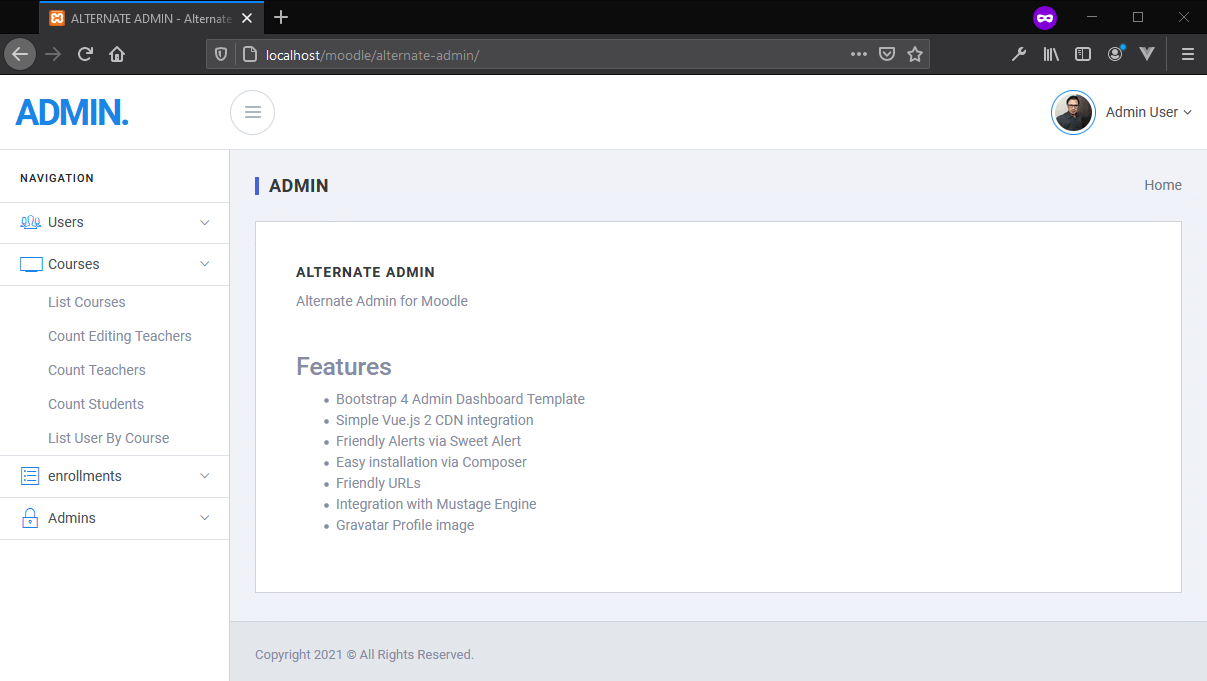
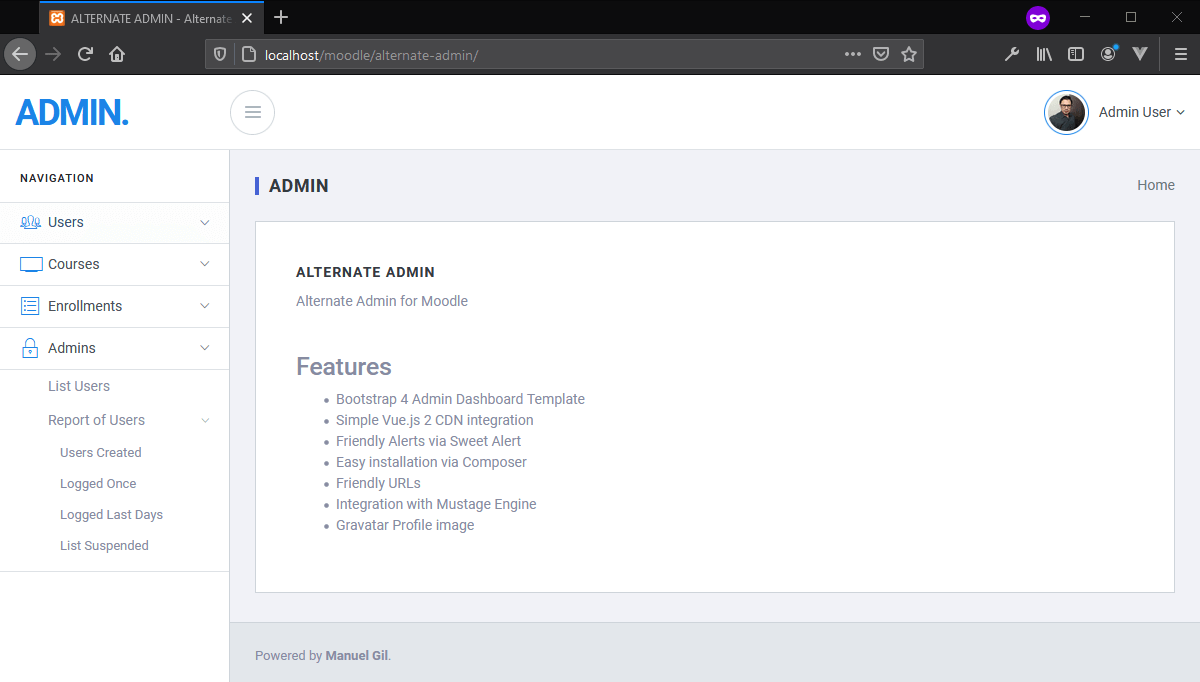
Update v0.1.2

diff --git a/app/controllers/UserController.php b/app/controllers/UserController.php
@@ -27,7 +27,7 @@
  *
  * Problem: Add more function to tradiccional admin.
  * @author $Author: Manuel Gil. $
- * @version $Revision: 0.1.1 $ $Date: 02/05/2021 $
+ * @version $Revision: 0.1.2 $ $Date: 02/06/2021 $
  * ~~~~~~~~~~~~~~~~~~~~~~~~~~~~~~~~~~~~~~~~~~~~~~~~~~~~~~~~~~~~~~~~~~~~
  */
 
@@ -277,5 +277,103 @@ class UserController extends BaseController
 
 		// Render template.
 		return $this->render('/users/list-courses-user.mustache', $params);
+	}
+
+	/**
+	 * This method load the 'suspend-user' route. <br/>
+	 * <b>post: </b>access to GET method.
+	 */
+	public function getSuspendUser()
+	{
+		// Imports Config and Current User.
+		global $CFG, $USER;
+
+		// Parsing the users.
+		$users = addslashes(
+			json_encode(
+				get_users_listing(),
+				JSON_HEX_AMP | JSON_HEX_TAG | JSON_HEX_APOS | JSON_HEX_QUOT
+			)
+		);
+
+		$params = array(
+			'COMPANY' => COMPANY,
+			'BASE_URL' => BASE_URL,
+			'wwwroot' => $CFG->wwwroot,
+			'USER' => $USER,
+			'users' => $users
+		);
+
+		// Render template.
+		return $this->render('/users/suspend-user.mustache', $params);
+	}
+
+	/**
+	 * This method load the 'suspend-user' route. <br/>
+	 * <b>post: </b>access to POST method.
+	 */
+	public function postSuspendUser()
+	{
+		// Imports Config, Database and Current User.
+		global $CFG, $DB, $USER;
+
+		// Define the count variables.
+		$successes = 0;
+		$failures = 0;
+
+		// Loop through the users.
+		foreach ($_POST['users'] as $userid) {
+			try {
+				$DB->set_field('user', 'suspended', '1', ['id' => $userid]);
+
+				// Add one user to the count.
+				$successes++;
+			} catch (\Throwable $e) {
+				// Add one fault to the count.
+				$failures++;
+			}
+		}
+
+		$message = "";
+
+		// Add a message with the number of hits.
+		if ($successes > 0) {
+			$message .= "<div class=\"alert alert-success\" role=\"alert\">
+        				      <button type=\"button\" class=\"close\" data-dismiss=\"alert\" aria-label=\"Close\">
+        				        <span aria-hidden=\"true\">&times;</span>
+        				      </button>
+        				      <strong>Well done!</strong> {$successes} users were suspended.
+        				</div>";
+		}
+
+		// Add a message with the number of failures.
+		if ($failures > 0) {
+			$message .= "<div class=\"alert alert-danger\" role=\"alert\">
+        				      <button type=\"button\" class=\"close\" data-dismiss=\"alert\" aria-label=\"Close\">
+        				        <span aria-hidden=\"true\">&times;</span>
+        				      </button>
+        				      <strong>Heads up!</strong> {$failures} users could not be suspended.
+        				</div>";
+		}
+
+		// Parsing the users.
+		$users = addslashes(
+			json_encode(
+				get_users_listing(),
+				JSON_HEX_AMP | JSON_HEX_TAG | JSON_HEX_APOS | JSON_HEX_QUOT
+			)
+		);
+
+		$params = array(
+			'COMPANY' => COMPANY,
+			'BASE_URL' => BASE_URL,
+			'wwwroot' => $CFG->wwwroot,
+			'USER' => $USER,
+			'users' => $users,
+			'message' => $message
+		);
+
+		// Render template.
+		return $this->render('/users/suspend-user.mustache', $params);
 	}
 }

diff --git a/app/controllers/AdminController.php b/app/controllers/AdminController.php
@@ -27,7 +27,7 @@
  *
  * Problem: Add more function to tradiccional admin.
  * @author $Author: Manuel Gil. $
- * @version $Revision: 0.1.1 $ $Date: 02/05/2021 $
+ * @version $Revision: 0.1.2 $ $Date: 02/06/2021 $
  * ~~~~~~~~~~~~~~~~~~~~~~~~~~~~~~~~~~~~~~~~~~~~~~~~~~~~~~~~~~~~~~~~~~~~
  */
 
@@ -200,5 +200,46 @@ class AdminController extends BaseController
 
 		// Render template.
 		return $this->render('/admins/logged-last-days.mustache', $params);
+	}
+
+	/**
+	 * This method load the 'list-suspended' route. <br/>
+	 * <b>post: </b>access to GET method.
+	 */
+	public function getListSuspended()
+	{
+		// Imports Config, Database and Current User.
+		global $CFG, $DB, $USER;
+
+		// SQL Query for count users.
+		$sql = "SELECT      id,
+							username,
+							email,
+							firstname,
+							lastname
+				FROM		{user}
+				WHERE       suspended = 1;";
+
+		// Execute the query.
+		$records = $DB->get_records_sql($sql);
+
+		// Parsing the users.
+		$users = addslashes(
+			json_encode(
+				$records,
+				JSON_HEX_AMP | JSON_HEX_TAG | JSON_HEX_APOS | JSON_HEX_QUOT
+			)
+		);
+
+		$params = array(
+			'COMPANY' => COMPANY,
+			'BASE_URL' => BASE_URL,
+			'wwwroot' => $CFG->wwwroot,
+			'USER' => $USER,
+			'users' => $users
+		);
+
+		// Render template.
+		return $this->render('/admins/list-suspended.mustache', $params);
 	}
 }

diff --git a/app/controllers/EnrollmentController.php b/app/controllers/EnrollmentController.php
@@ -27,7 +27,7 @@
  *
  * Problem: Add more function to tradiccional admin.
  * @author $Author: Manuel Gil. $
- * @version $Revision: 0.1.1 $ $Date: 01/25/2021 $
+ * @version $Revision: 0.1.2 $ $Date: 01/25/2021 $
  * ~~~~~~~~~~~~~~~~~~~~~~~~~~~~~~~~~~~~~~~~~~~~~~~~~~~~~~~~~~~~~~~~~~~~
  */
 
@@ -519,6 +519,7 @@ class EnrollmentController extends BaseController
 		// Render template.
 		return $this->render('/enrollments/switch-role.mustache', $params);
 	}
+
 	/**
 	 * This method load the 'switch-role' route. <br/>
 	 * <b>post: </b>access to POST method.

diff --git a/app/App.php b/app/App.php
@@ -27,7 +27,7 @@
  *
  * Problem: Add more function to tradiccional admin.
  * @author $Author: Manuel Gil. $
- * @version $Revision: 0.1.1 $ $Date: 02/05/2021 $
+ * @version $Revision: 0.1.2 $ $Date: 02/06/2021 $
  * ~~~~~~~~~~~~~~~~~~~~~~~~~~~~~~~~~~~~~~~~~~~~~~~~~~~~~~~~~~~~~~~~~~~~
  */
 

diff --git a/app/config/Config.php b/app/config/Config.php
@@ -27,7 +27,7 @@
  *
  * Problem: Add more function to tradiccional admin.
  * @author $Author: Manuel Gil. $
- * @version $Revision: 0.1.1 $ $Date: 02/05/2021 $
+ * @version $Revision: 0.1.2 $ $Date: 02/06/2021 $
  * ~~~~~~~~~~~~~~~~~~~~~~~~~~~~~~~~~~~~~~~~~~~~~~~~~~~~~~~~~~~~~~~~~~~~
  */
 

diff --git a/app/controllers/BaseController.php b/app/controllers/BaseController.php
@@ -27,7 +27,7 @@
  *
  * Problem: Add more function to tradiccional admin.
  * @author $Author: Manuel Gil. $
- * @version $Revision: 0.1.1 $ $Date: 02/05/2021 $
+ * @version $Revision: 0.1.2 $ $Date: 02/06/2021 $
  * ~~~~~~~~~~~~~~~~~~~~~~~~~~~~~~~~~~~~~~~~~~~~~~~~~~~~~~~~~~~~~~~~~~~~
  */
 

diff --git a/app/controllers/CourseController.php b/app/controllers/CourseController.php
@@ -27,7 +27,7 @@
  *
  * Problem: Add more function to tradiccional admin.
  * @author $Author: Manuel Gil. $
- * @version $Revision: 0.1.1 $ $Date: 02/05/2021 $
+ * @version $Revision: 0.1.2 $ $Date: 02/06/2021 $
  * ~~~~~~~~~~~~~~~~~~~~~~~~~~~~~~~~~~~~~~~~~~~~~~~~~~~~~~~~~~~~~~~~~~~~
  */
 

diff --git a/app/controllers/MainController.php b/app/controllers/MainController.php
@@ -27,7 +27,7 @@
  *
  * Problem: Add more function to tradiccional admin.
  * @author $Author: Manuel Gil. $
- * @version $Revision: 0.1.1 $ $Date: 02/05/2021 $
+ * @version $Revision: 0.1.2 $ $Date: 02/06/2021 $
  * ~~~~~~~~~~~~~~~~~~~~~~~~~~~~~~~~~~~~~~~~~~~~~~~~~~~~~~~~~~~~~~~~~~~~
  */
 

diff --git a/index.php b/index.php
@@ -27,7 +27,7 @@
  *
  * Problem: Add more function to tradiccional admin.
  * @author $Author: Manuel Gil. $
- * @version $Revision: 0.1.1 $ $Date: 02/05/2021 $
+ * @version $Revision: 0.1.2 $ $Date: 02/06/2021 $
  * ~~~~~~~~~~~~~~~~~~~~~~~~~~~~~~~~~~~~~~~~~~~~~~~~~~~~~~~~~~~~~~~~~~~~
  */
 

diff --git a/CHANGELOG.md b/CHANGELOG.md
@@ -7,6 +7,12 @@ and this project adheres to [Semantic Versioning](https://semver.org/spec/v2.0.0
 
 ## [Unreleased]
 
+## [0.1.2] - 2021-02-06
+
+### Added
+
+-   New "Suspend User" sub-section to "Users".
+
 ## [0.1.1] - 2021-02-05
 
 ### Added
@@ -118,7 +124,8 @@ and this project adheres to [Semantic Versioning](https://semver.org/spec/v2.0.0
 
 _Initial major release.._
 
-[unreleased]: https://github.com/ManuelGil/alternate-admin/compare/v0.1.1...HEAD
+[unreleased]: https://github.com/ManuelGil/alternate-admin/compare/v0.1.2...HEAD
+[0.1.2]: https://github.com/ManuelGil/alternate-admin/compare/v0.1.1...v0.1.2
 [0.1.1]: https://github.com/ManuelGil/alternate-admin/compare/v0.1.0...v0.1.1
 [0.1.0]: https://github.com/ManuelGil/alternate-admin/compare/v0.0.10...v0.1.0
 [0.0.10]: https://github.com/ManuelGil/alternate-admin/compare/v0.0.9...v0.0.10
